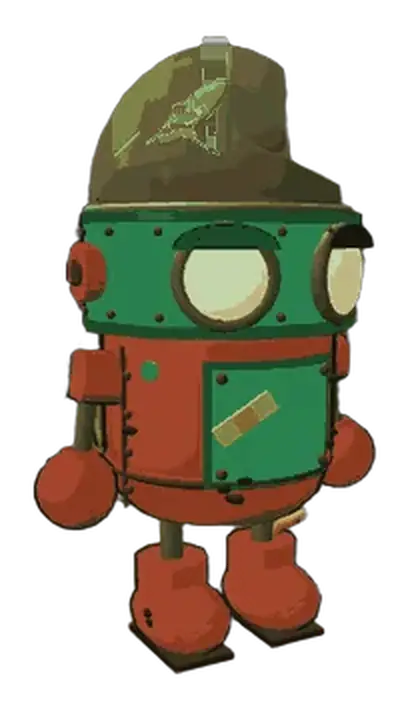
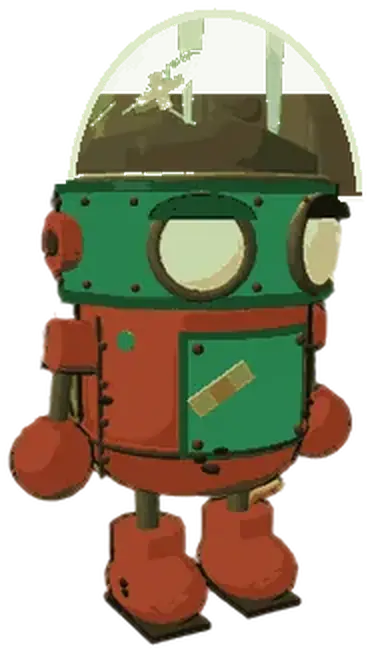
Make mudpity's dome glass and the glow a round halo
The globe is see-through now: jungle that showed through the glass is only a faint veil, and the sprout, soil, rim and highlights stay solid. The glow is a circle that fades out before its edge, so it no longer reads as a box.

diff --git a/site.css b/site.css
@@ -371,40 +371,37 @@ html:not(.tk-on) .tk-run{width:100%}html:not(.tk-on) .tk-list{flex:0 1 auto;min-
 
 /* mudpity: the game's robot, a link in the empty left rail (mirrors tylerbot's flare on the right). Cut out of members/mudpity/media/07-hero.webp. Narrow screens: he sits under the hero card so the start box stays clear. */
 .mp-rail{display:flex;flex-direction:column;align-items:center;width:min(160px,52vw);margin:6px auto 22px;position:relative;z-index:2;text-decoration:none;color:var(--soft);text-align:center;transform-origin:50% 72%;transition:transform .12s ease;-webkit-tap-highlight-color:transparent}
-.mp-rail-fig{position:relative;display:block;width:100%}
-.mp-rail-glow{position:absolute;z-index:0;left:-28%;right:-28%;top:-2%;bottom:-6%;pointer-events:none;background:radial-gradient(ellipse at 50% 44%,rgba(243,201,105,.72) 0%,rgba(227,167,104,.4) 36%,rgba(200,135,74,.16) 58%,rgba(200,135,74,0) 74%);animation:mp-rail-glow 5s ease-in-out infinite;transition:opacity .12s ease,scale .12s ease}
-@keyframes mp-rail-glow{0%,100%{opacity:.55;scale:.92}50%{opacity:1;scale:1.06}}
-.mp-rail img{position:relative;z-index:1;display:block;width:100%;height:auto;filter:drop-shadow(0 12px 6px rgba(0,0,0,.55)) drop-shadow(0 0 12px rgba(243,201,105,.35));animation:mp-rail-halo 5s ease-in-out infinite;transition:filter .12s ease}
-@keyframes mp-rail-halo{0%,100%{filter:drop-shadow(0 12px 6px rgba(0,0,0,.55)) drop-shadow(0 0 8px rgba(243,201,105,.22))}50%{filter:drop-shadow(0 12px 6px rgba(0,0,0,.55)) drop-shadow(0 0 16px rgba(243,201,105,.5))}}
+.mp-rail-fig{position:relative;display:block;width:100%;background:none}
+/* Round halo only. The circle fades to nothing inside its own box, so no rectangle shows. */
+.mp-rail-glow{position:absolute;z-index:0;left:50%;top:42%;width:130%;aspect-ratio:1;transform:translate(-50%,-50%);border-radius:50%;pointer-events:none;background:radial-gradient(circle closest-side,rgba(243,201,105,.78) 0%,rgba(227,167,104,.42) 26%,rgba(200,135,74,.16) 48%,rgba(200,135,74,.05) 72%,rgba(200,135,74,0) 100%);animation:mp-rail-glow 5s ease-in-out infinite}
+@keyframes mp-rail-glow{0%,100%{opacity:.58}50%{opacity:1}}
+.mp-rail img{position:relative;z-index:1;display:block;width:100%;height:auto;background:none;filter:drop-shadow(0 12px 7px rgba(0,0,0,.48));transition:filter .12s ease}
 .mp-rail-cap{position:relative;z-index:1;display:block;margin-top:10px;font-family:var(--font-body);font-size:13px;font-weight:500;line-height:1.35;color:var(--soft);text-wrap:balance}
 .mp-rail:hover{transform:translateY(-4px)}
-.mp-rail:hover .mp-rail-glow,.mp-rail:focus-visible .mp-rail-glow{animation:none;opacity:1;scale:1.1;background:radial-gradient(ellipse at 50% 44%,rgba(255,226,176,.9) 0%,rgba(243,201,105,.55) 34%,rgba(227,167,104,.22) 56%,rgba(200,135,74,0) 74%)}
-.mp-rail:hover img,.mp-rail:focus-visible img{animation:none;filter:drop-shadow(0 18px 8px rgba(0,0,0,.55)) drop-shadow(0 0 18px rgba(243,201,105,.65))}
+.mp-rail:hover .mp-rail-glow,.mp-rail:focus-visible .mp-rail-glow{animation:none;opacity:1;background:radial-gradient(circle closest-side,rgba(255,226,176,.92) 0%,rgba(243,201,105,.55) 24%,rgba(227,167,104,.2) 46%,rgba(200,135,74,.06) 70%,rgba(200,135,74,0) 100%)}
+.mp-rail:hover img,.mp-rail:focus-visible img{filter:drop-shadow(0 16px 8px rgba(0,0,0,.5))}
 .mp-rail:active,.mp-rail.is-down{transform:translateY(4px) scale(0.94)}
-.mp-rail:active .mp-rail-glow,.mp-rail.is-down .mp-rail-glow{animation:none;opacity:.5;scale:.82}
-.mp-rail:active img,.mp-rail.is-down img{animation:none;filter:drop-shadow(0 3px 2px rgba(0,0,0,.45)) drop-shadow(0 0 4px rgba(243,201,105,.2))}
+.mp-rail:active .mp-rail-glow,.mp-rail.is-down .mp-rail-glow{animation:none;opacity:.5;background:radial-gradient(circle closest-side,rgba(243,201,105,.4) 0%,rgba(227,167,104,.14) 22%,rgba(200,135,74,0) 58%)}
+.mp-rail:active img,.mp-rail.is-down img{filter:drop-shadow(0 3px 2px rgba(0,0,0,.4))}
 .mp-rail:focus-visible{outline:3px solid var(--mud2);outline-offset:4px;border-radius:16px}
 @media (min-width:1100px){
  .mp-rail{position:absolute;top:calc(var(--tk) + 72px + 64px);right:calc(50% + 430px + 16px);width:clamp(96px,calc((100vw - 860px)/2 - 32px),150px);margin:0}
- .mp-rail-glow{left:-6%;right:-6%}
- .mp-rail img{animation-name:mp-rail-halo-tight}
- .mp-rail:hover img,.mp-rail:focus-visible img{animation:none;filter:drop-shadow(0 8px 3px rgba(0,0,0,.5)) drop-shadow(0 0 5px rgba(243,201,105,.45))}
- .mp-rail:active img,.mp-rail.is-down img{animation:none;filter:drop-shadow(0 2px 1px rgba(0,0,0,.45)) drop-shadow(0 0 2px rgba(243,201,105,.18))}
+ .mp-rail-glow{width:112%}
+ .mp-rail img,.mp-rail:hover img,.mp-rail:focus-visible img{filter:drop-shadow(0 8px 4px rgba(0,0,0,.45))}
+ .mp-rail:active img,.mp-rail.is-down img{filter:drop-shadow(0 2px 1px rgba(0,0,0,.4))}
  .mp-rail-cap{font-size:12px;line-height:1.4}
 }
-@keyframes mp-rail-halo-tight{0%,100%{filter:drop-shadow(0 8px 4px rgba(0,0,0,.5)) drop-shadow(0 0 4px rgba(243,201,105,.28))}50%{filter:drop-shadow(0 8px 4px rgba(0,0,0,.5)) drop-shadow(0 0 6px rgba(243,201,105,.45))}}
 @media (min-width:1240px){
  .mp-rail{right:calc(50% + 430px + 28px);width:clamp(150px,calc((100vw - 860px)/2 - 56px),210px)}
- .mp-rail-glow{left:-16%;right:-16%}
- .mp-rail img{animation-name:mp-rail-halo}
- .mp-rail:hover img,.mp-rail:focus-visible img{animation:none;filter:drop-shadow(0 18px 8px rgba(0,0,0,.55)) drop-shadow(0 0 18px rgba(243,201,105,.65))}
- .mp-rail:active img,.mp-rail.is-down img{animation:none;filter:drop-shadow(0 3px 2px rgba(0,0,0,.45)) drop-shadow(0 0 4px rgba(243,201,105,.2))}
+ .mp-rail-glow{width:134%}
+ .mp-rail img{filter:drop-shadow(0 12px 7px rgba(0,0,0,.48))}
+ .mp-rail:hover img,.mp-rail:focus-visible img{filter:drop-shadow(0 16px 8px rgba(0,0,0,.5))}
+ .mp-rail:active img,.mp-rail.is-down img{filter:drop-shadow(0 3px 2px rgba(0,0,0,.4))}
 }
 @media (prefers-reduced-motion:reduce){
- .mp-rail-glow{animation:none!important;opacity:.8;scale:1}
+ .mp-rail-glow{animation:none!important;opacity:.82}
  .mp-rail,.mp-rail:hover,.mp-rail:active,.mp-rail.is-down{transform:none}
- .mp-rail img{animation:none!important;filter:drop-shadow(0 12px 6px rgba(0,0,0,.55)) drop-shadow(0 0 12px rgba(243,201,105,.4));transition:none}
- .mp-rail:hover img,.mp-rail:focus-visible img,.mp-rail:active img,.mp-rail.is-down img{transition:none}
+ .mp-rail img{transition:none}
 }
 @media (forced-colors:active){
  .mp-rail-glow{display:none}

diff --git a/index.html b/index.html
@@ -12,7 +12,7 @@
 <meta name="theme-color" content="#121110">
 <link rel="icon" type="image/png" sizes="32x32" href="img/mudmode-icon-32.png">
 <link rel="icon" type="image/png" sizes="192x192" href="img/mudmode-icon-192.png">
-<link rel="stylesheet" href="site.css?v=mp1">
+<link rel="stylesheet" href="site.css?v=mp2">
 <script src="site.js?v=mp1" defer></script>
 <script src="mascot.js?v=rc12" defer></script>
 <script src="alive.js?v=rc12" defer></script>
@@ -315,7 +315,7 @@ If the instructions (or, in a plain chat, this chat) already hold "My mudmode se
  <a class="mp-rail" href="members/mudpity/">
   <span class="mp-rail-fig">
    <span class="mp-rail-glow" aria-hidden="true"></span>
-   <img src="img/mudpity/mudpity-robot.webp" srcset="img/mudpity/mudpity-robot.webp 1x, img/mudpity/mudpity-robot-2x.webp 2x" width="205" height="355" alt="mudpity, the robot from our game. Play mudpity" decoding="async" loading="lazy">
+   <img src="img/mudpity/mudpity-robot.webp" srcset="img/mudpity/mudpity-robot.webp 1x, img/mudpity/mudpity-robot-2x.webp 2x" width="186" height="327" alt="mudpity, the robot from our game. Play mudpity" decoding="async" loading="lazy">
   </span>
   <span class="mp-rail-cap" aria-hidden="true">mudpity, the robot from our game. Tap him to play.</span>
  </a>
